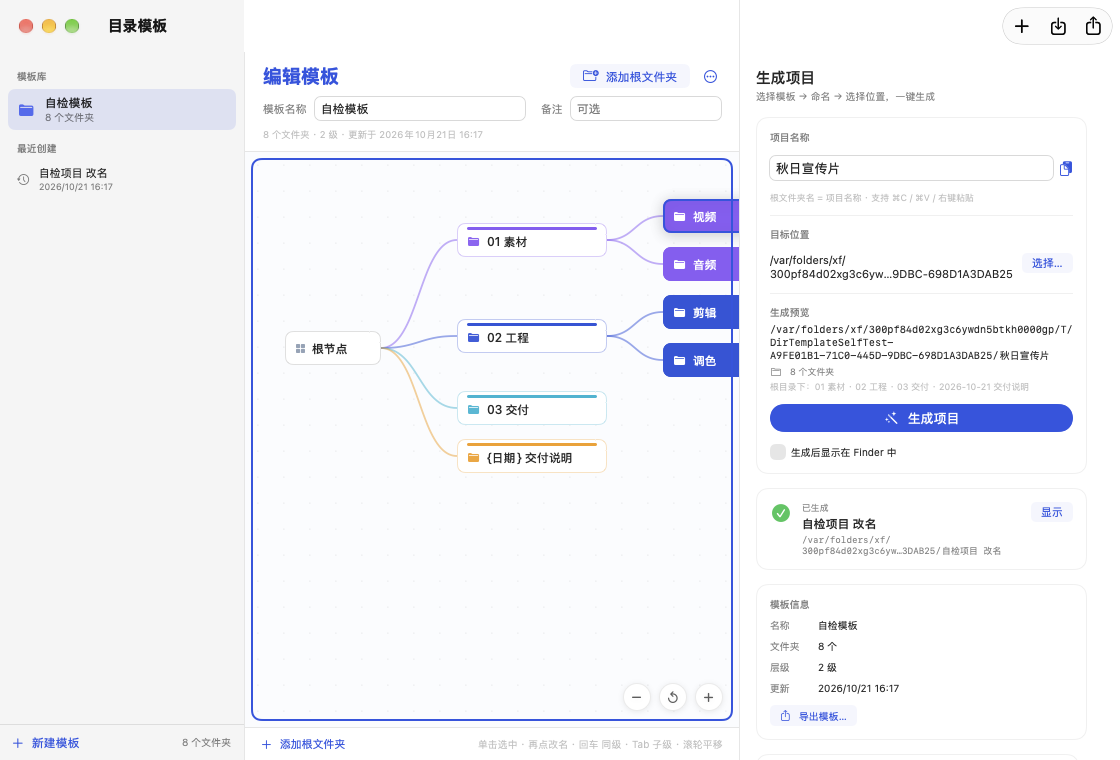
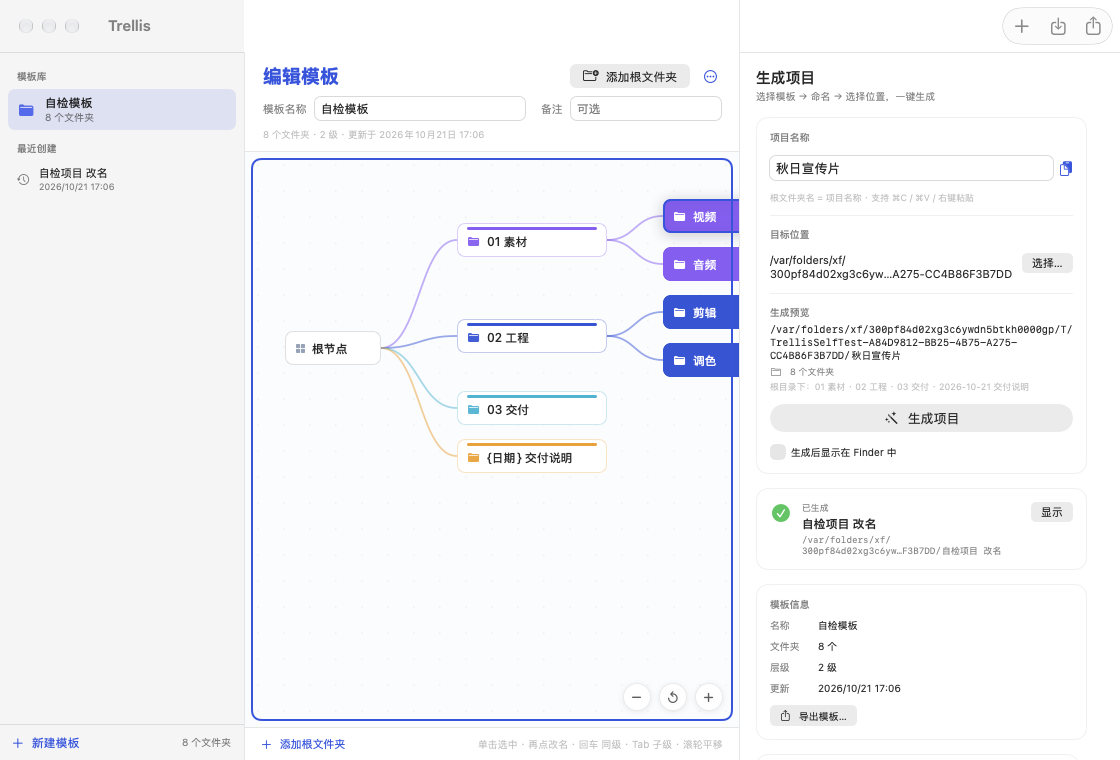
Rebrand app as Trellis (bundle, executable, data dir, DMG, Windows title)

diff --git a/DirTemplate/TemplateStore.swift b/DirTemplate/TemplateStore.swift
@@ -90,7 +90,7 @@ final class TemplateStore: ObservableObject {
 
     private let fileManager = FileManager.default
     private let libraryURL: URL
-    private let saveQueue = DispatchQueue(label: "com.martin.dirtemplate.library", qos: .utility)
+    private let saveQueue = DispatchQueue(label: "com.martin.trellis.library", qos: .utility)
     private var pendingSave: DispatchWorkItem?
 
     // MARK: 初始化
@@ -98,7 +98,12 @@ final class TemplateStore: ObservableObject {
     init() {
         let support = fileManager.urls(for: .applicationSupportDirectory, in: .userDomainMask).first
             ?? fileManager.homeDirectoryForCurrentUser.appendingPathComponent("Library/Application Support")
-        var folder = support.appendingPathComponent("DirTemplate", isDirectory: true)
+        let legacyFolder = support.appendingPathComponent("DirTemplate", isDirectory: true)
+        var folder = support.appendingPathComponent("Trellis", isDirectory: true)
+        if !fileManager.fileExists(atPath: folder.path),
+           fileManager.fileExists(atPath: legacyFolder.path) {
+            try? fileManager.copyItem(at: legacyFolder, to: folder)
+        }
         #if DEBUG
         var override = ProcessInfo.processInfo.environment["DIRTEMPLATE_STORE_DIR"]
         if let index = CommandLine.arguments.firstIndex(of: "--store"),
@@ -283,7 +288,8 @@ final class TemplateStore: ObservableObject {
     /// 点击画布时把键盘焦点从顶部输入框收回来，否则 Tab 会被系统当成焦点切换
     func focusCanvas() {
         canvasActive = true
-        NSApp.keyWindow?.makeFirstResponder(nil)
+        let window = NSApp.keyWindow ?? NSApp.windows.first(where: { $0.isVisible && !($0 is NSPanel) })
+        window?.makeFirstResponder(nil)
     }
 
     private func bumpTree() {

diff --git a/DirTemplate/SelfTest.swift b/DirTemplate/SelfTest.swift
@@ -138,7 +138,7 @@ enum SelfTest {
         check(store.selectedTemplate?.folderCount == 8, "模板共 8 个文件夹")
 
         let target = FileManager.default.temporaryDirectory
-            .appendingPathComponent("DirTemplateSelfTest-\(UUID().uuidString)", isDirectory: true)
+            .appendingPathComponent("TrellisSelfTest-\(UUID().uuidString)", isDirectory: true)
         try? FileManager.default.createDirectory(at: target, withIntermediateDirectories: true)
 
         store.draftProjectName = "自检项目"
@@ -164,8 +164,9 @@ enum SelfTest {
         Task { @MainActor in
             // 确保窗口在前台，避免无激活启动时输入框拿不到焦点
             if let window = NSApp.windows.first {
-                NSApp.activate(ignoringOtherApps: true)
+                NSRunningApplication.current.activate(options: [.activateAllWindows])
                 window.makeKeyAndOrderFront(nil)
+                window.makeKey()
             }
             try? await Task.sleep(for: .milliseconds(500))
 
@@ -241,6 +242,9 @@ enum SelfTest {
             if let window = NSApp.windows.first(where: { $0.isVisible }),
                let content = window.contentView,
                let field = firstEditableField(in: content) {
+                NSRunningApplication.current.activate(options: [.activateAllWindows])
+                window.makeKeyAndOrderFront(nil)
+                window.makeKey()
                 window.makeFirstResponder(field)
                 try? await Task.sleep(for: .milliseconds(150))
                 let fieldHadFocus = window.firstResponder is NSTextView

diff --git a/DirTemplate/ContentView.swift b/DirTemplate/ContentView.swift
@@ -31,7 +31,7 @@ struct ContentView: View {
                     Text(store.errorMessage ?? "")
                 }
         }
-        .navigationTitle("目录模板")
+        .navigationTitle("Trellis")
         .toolbar { toolbar }
         .alert(LocalizedStringKey(store.dialog?.title ?? ""),
                isPresented: dialogBinding) {
@@ -130,8 +130,12 @@ struct WelcomeView: View {
                 .font(.system(size: 54, weight: .light))
                 .foregroundStyle(Theme.accent)
 
-            Text("目录模板")
+            Text("Trellis")
                 .font(.system(size: 24, weight: .semibold))
+
+            Text("目录模板 · 一键生成项目文件夹")
+                .font(.system(size: 11))
+                .foregroundStyle(.secondary)
 
             Text("把常用的项目目录结构保存成模板，\n选择位置后一键生成完整的项目文件夹。")
                 .font(.system(size: 13))

diff --git a/windows/renderer/index.html b/windows/renderer/index.html
@@ -3,7 +3,7 @@
 <head>
   <meta charset="UTF-8">
   <meta http-equiv="Content-Security-Policy" content="default-src 'self'; style-src 'self' 'unsafe-inline'; img-src 'self' data:; script-src 'self'">
-  <title>Trellis · 目录模板</title>
+  <title>Trellis</title>
   <link rel="stylesheet" href="style.css">
 </head>
 <body>

diff --git a/DirTemplate/DirTemplateApp.swift b/DirTemplate/DirTemplateApp.swift
@@ -6,7 +6,7 @@ struct DirTemplateApp: App {
     @StateObject private var store = TemplateStore()
 
     var body: some Scene {
-        WindowGroup("目录模板") {
+        WindowGroup("Trellis") {
             ContentView()
                 .environmentObject(store)
                 .tint(Theme.accent)

diff --git a/windows/main.js b/windows/main.js
@@ -39,7 +39,7 @@ function createWindow() {
     minWidth: 1040,
     minHeight: 680,
     backgroundColor: '#fbfcfe',
-    title: 'Trellis · 目录模板',
+    title: 'Trellis',
     autoHideMenuBar: false,
     webPreferences: {
       preload: path.join(__dirname, 'preload.js'),

diff --git a/windows/README.md b/windows/README.md
@@ -38,20 +38,10 @@ pnpm start
 
 ## 打包 Windows 安装包
 
-在 Windows 上：
-
 ```bash
 pnpm dist:win
-```
-
-在 macOS 上（没有 Wine 时，electron-builder 的 NSIS 步骤会失败），分两步：
-
-```bash
-# 1. 只生成 win-unpacked（x64）
-npx electron-builder --win --x64 --dir
-
-# 2. 用 NSIS 官方 macOS 版 makensis 编译安装包
-NSISDIR=<nsis 目录> <nsis 目录>/mac/makensis installer.nsi
+# 或
+npx electron-builder --win nsis --x64
 ```
 
 产物：`release/Trellis-Setup-1.0.0.exe`
